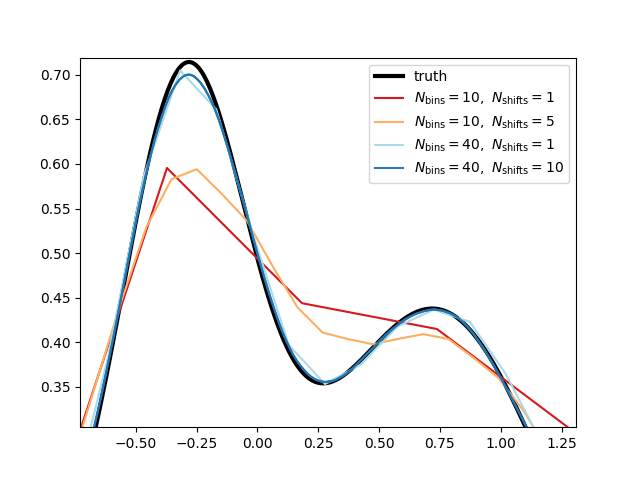
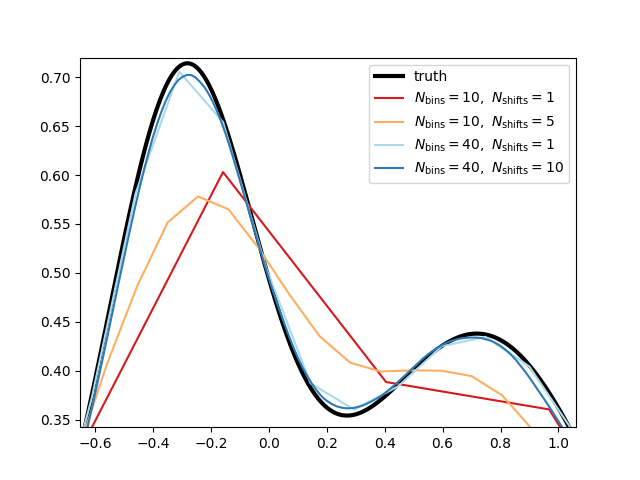
updated bin spacing so that nshifts=1 corresponds to linear interpolation through bin centers

diff --git a/ash/ash.py b/ash/ash.py
@@ -6,10 +6,10 @@ def ash1d(vals, nbins=20, nshifts=10, weights=None):
   dx = (vmax-vmin)/nbins
   ds = dx/nshifts
 
-  ashgrid = np.linspace(vmin, vmax, (nbins+2)*nshifts)
+  ashgrid = np.linspace(vmin, vmax, (nbins+2)*nshifts) + 0.5*(vmax-vmin)/(nbins+1)
   ashden = np.zeros(ashgrid.shape)
   for i in range(nshifts):
-    hist_range = (vmin + i*ds, vmax + i*ds - dx)
+    hist_range = (vmin + i*ds, vmax + i*ds)
     hist, edges = np.histogram(vals, nbins+1, range=hist_range, density=True, weights = weights)
     histdat = np.repeat(hist, nshifts, axis=0)
     histdat = np.append( np.zeros(i), histdat, axis=0)
@@ -33,14 +33,14 @@ def ash2d(xvals, yvals, nbins=20, nshifts=10, weights=None):
   dsy = dy/nshifts
 
   nsg = (nbins+2)*nshifts
-  xgrid = np.linspace(xmin, xmax, (nbins+2)*nshifts)
-  ygrid = np.linspace(xmin, xmax, (nbins+2)*nshifts)
+  xgrid = np.linspace(xmin, xmax, (nbins+2)*nshifts) + 0.5*(xmax-xmin)/(nbins+1)
+  ygrid = np.linspace(xmin, xmax, (nbins+2)*nshifts) + 0.5*(ymax-ymin)/(nbins+1)
   ashmesh = np.meshgrid(xgrid, ygrid)
   ashden = np.zeros((nsg, nsg))
 
   for i in range(nshifts):  #x loop
     for j in range(nshifts):  #y loop
-      histrange = ( (xmin + i*dsx, xmax + i*dsx - dx), (ymin + j*dsy, ymax + j*dsy - dy) )
+      histrange = ( (xmin + i*dsx, xmax + i*dsx), (ymin + j*dsy, ymax + j*dsy) )
       hist, xedge, yedge = np.histogram2d(xvals, yvals, nbins+1, range=histrange, density=True, weights=weights)
       histt = np.repeat(hist, nshifts, axis=0)
       histt = np.repeat(histt, nshifts, axis=1)
